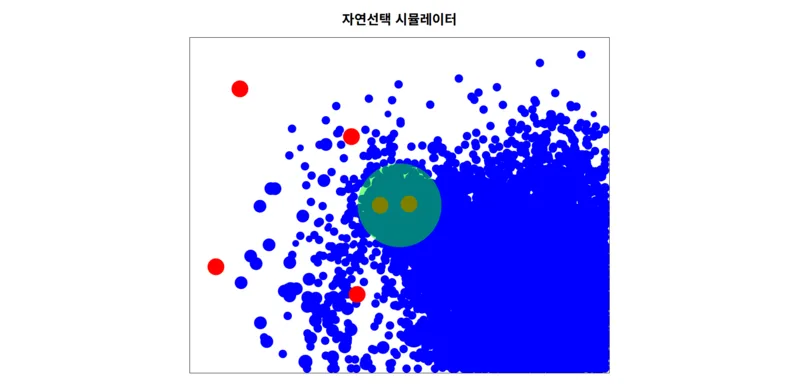
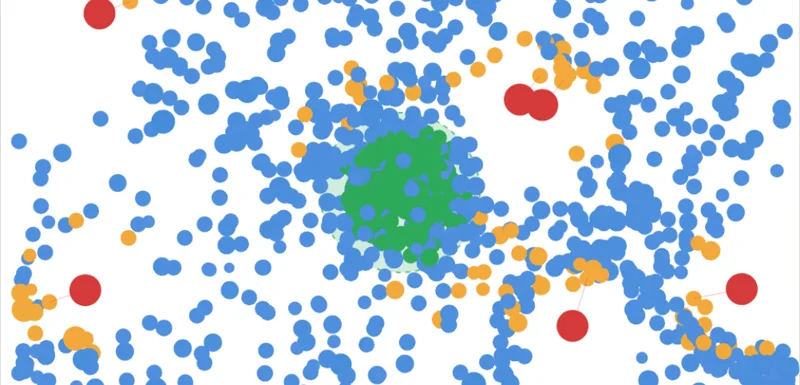
docs(home): 자연선택 시뮬레이터 카드 갱신 — 설명·스택(유전 알고리즘·에이전트 AI)·설명 페이지 링크·새 스크린샷(추적·도주·피신 표시)

diff --git a/index.html b/index.html
@@ -563,17 +563,20 @@
                         </div>
                         <div class="proj-slide" data-idx="5">
                             <div class="proj-content">
-                                <div class="proj-cat">JavaScript · 시뮬레이션</div>
+                                <div class="proj-cat">JavaScript · 시뮬레이션 · 에이전트 AI</div>
                                 <h2 class="proj-title">자연선택<br>시뮬레이터</h2>
                                 <div class="proj-stack">
-                                    <span>JavaScript</span><span>Canvas API</span><span>생물학</span>
+                                    <span>JavaScript</span><span>Canvas API</span><span>유전 알고리즘</span><span>에이전트 AI</span><span>생물학</span>
                                 </div>
-                                <p class="proj-desc">과학수업에서 영감을 받아 만든 진화 시뮬레이터.<br>피식자가 배경색에 따라 세대를 거치며 자연선택되는 과정 Canvas로 시각화.</p>
-                                <a class="proj-link" href="projects/natural_selection/" target="_blank" rel="noopener">데모 보기 -></a>
+                                <p class="proj-desc">과학 수업에서 영감을 받아 만든 포식자–피식자 진화 시뮬레이터.<br>크기·감지 거리 두 형질이 유전·돌연변이하며 세대를 거쳐 선택되는 과정을 Canvas로 시각화.<br>포식자는 먹이를 추적하고 피식자는 도망치며 안전지대를 인지, 크기–속도·감지–번식 트레이드오프로 환경마다 유리한 형질이 달라짐.</p>
+                                <div class="proj-links">
+                                    <a class="proj-link" href="projects/natural_selection/" target="_blank" rel="noopener">데모 보기 -></a>
+                                    <a class="proj-link" href="projects/natural_selection/explanation/" target="_blank" rel="noopener">규칙·설명 -></a>
+                                </div>
                             </div>
                             <a class="proj-polaroid" style="--rot:-4.5deg" href="projects/natural_selection/" target="_blank" rel="noopener" aria-label="자연선택 시뮬레이터 — 데모 보기">
                                 <img src="img/project/select2.webp" width="800" height="385" alt="자연선택 시뮬레이터" loading="lazy">
-                                <span class="proj-polaroid-cap">Natural Selection ㅡ 2025</span>
+                                <span class="proj-polaroid-cap">Natural Selection ㅡ 2025~2026</span>
                             </a>
                         </div>
                         <div class="proj-slide" data-idx="6">
